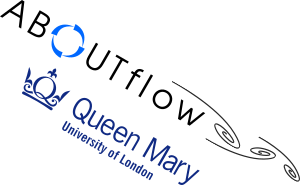
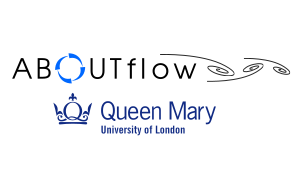
updated projects image with vertical style

diff --git a/index.html b/index.html
@@ -215,7 +215,7 @@
 
                 <div class="project shadow-large">
                     <div class="project-image">
-                        <img src="images/project_logo_rotate.png" />
+                        <img src="images/project_warwick.png" />
                     </div>
                     <!-- End .project-image -->
                     <div class="project-info">
